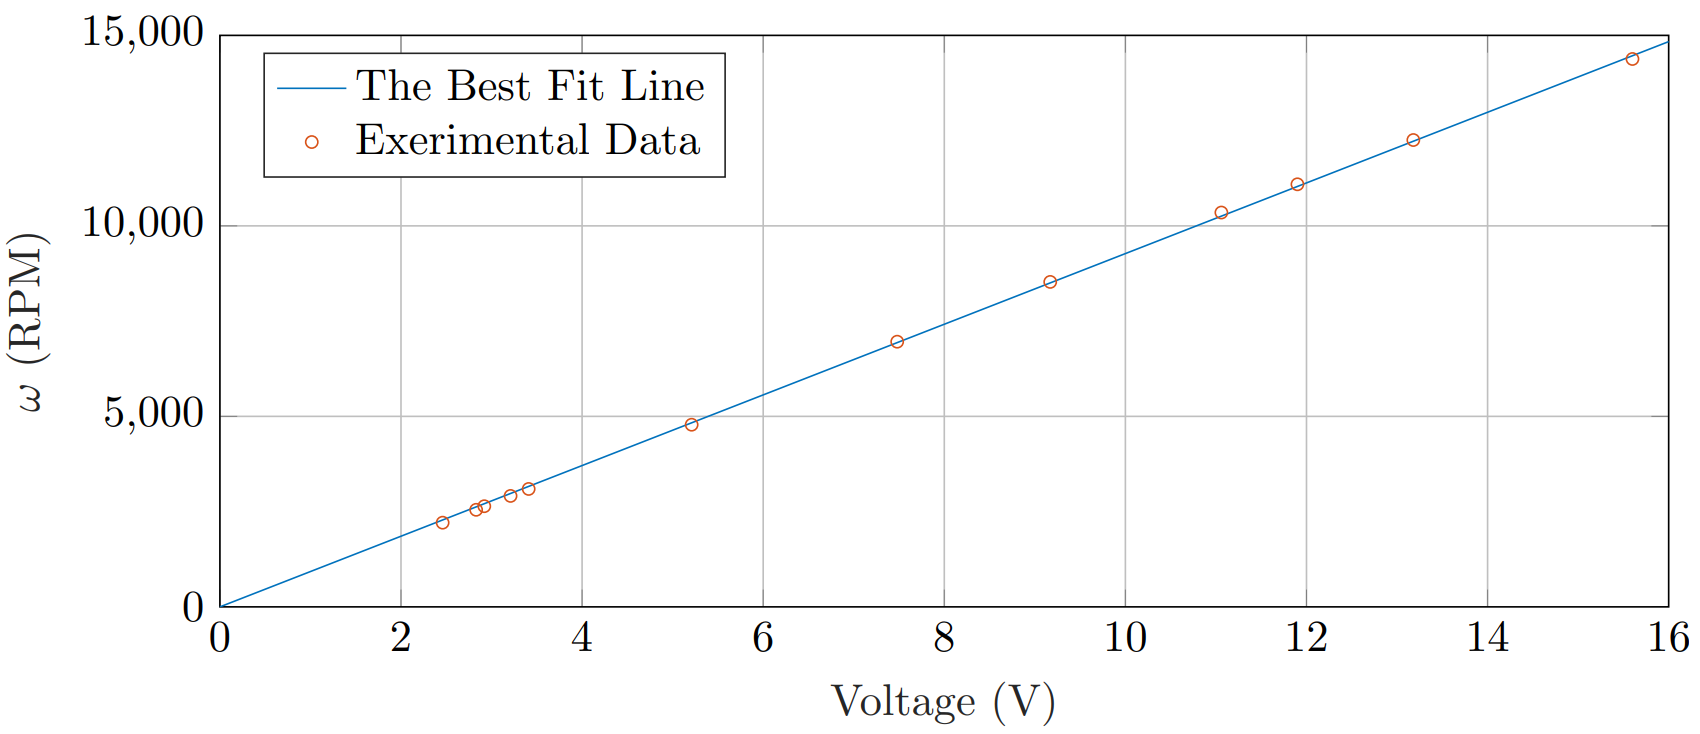
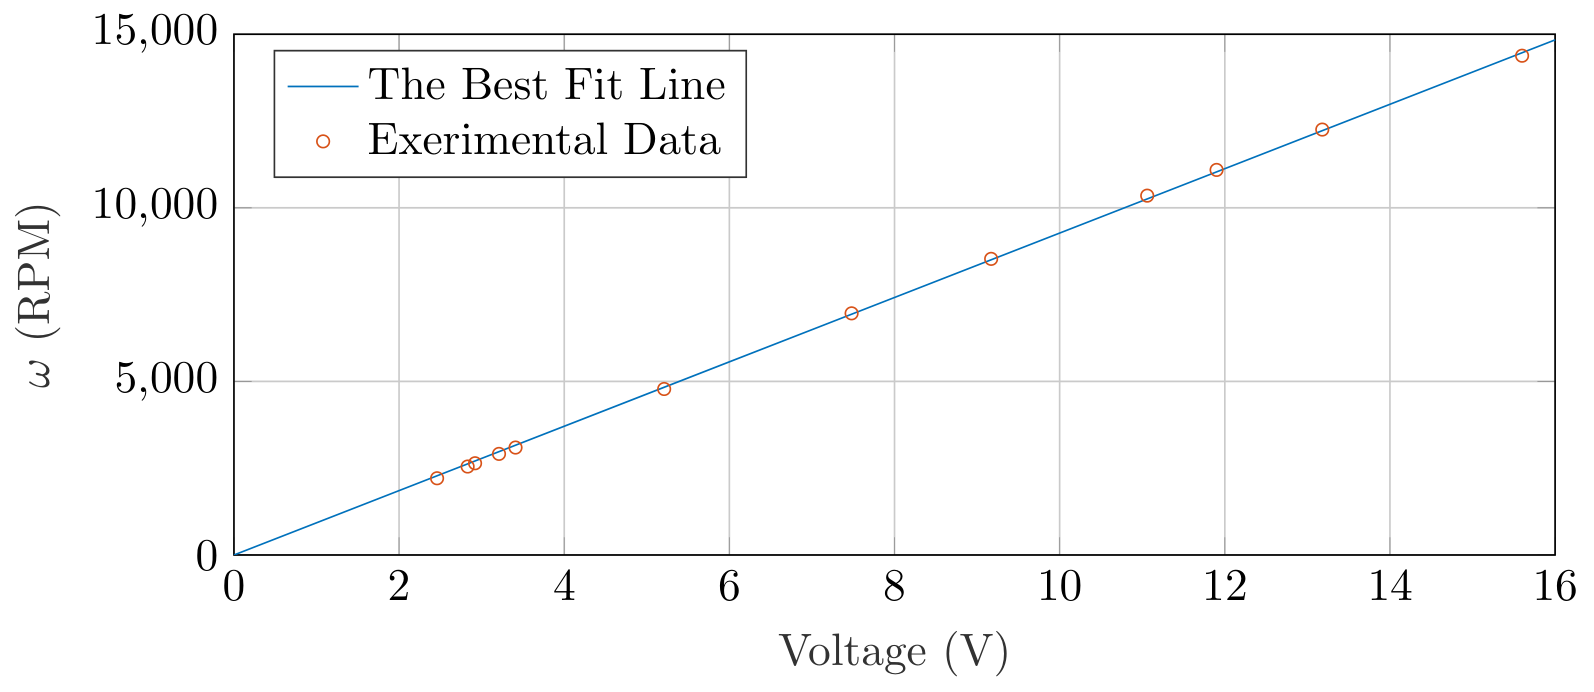
add dark mode figures

diff --git a/src/posts/design_and_construction_of_a_dynamometer.md b/src/posts/design_and_construction_of_a_dynamometer.md
@@ -101,7 +101,6 @@ In its simplest form, an eddy current dynamometer uses a metal disk attached to 
 
 ![A schematic diagram of a eddy current brake.](../assets/figures/dyno-EddyCurrentBrake.svg){width=60% #fig-eddyCurrentDiagram}
 
-
 Although eddy current braking allows for controllable braking, accurately measuring torque is difficult. Additionally, designing a well-balanced disk to couple with a high-speed rotating shaft has mechanical challenges.
 
 #### Dynamic Brake
@@ -161,15 +160,19 @@ where $K_T$ is the torque constant of the motor, $i$ is the coil current, and $T
 
 ### Formulation and Design Variables
 
-To further analyze and optimize the dynamometer's design, the dynamometer is modeled, and its schematic is shown in [](#fig-schematic).
+To further analyze and optimize the dynamometer's design, the dynamometer is modeled, and its schematic is shown in [Figure 5](#fig-schematic).
 
-![The graphical representation of the dynamometer.](../assets/figures/dyno-theSchematic.png){width=80% #fig-schematic}
+<figure markdown="span" id="fig-schematic">
+    ![The graphical representation of the dynamometer.](../assets/figures/dyno-theSchematic.png#only-light){ width=80% }
+    ![The graphical representation of the dynamometer.](../assets/figures/dyno-theSchematic-dark.png#only-dark){ width=80% }
+    <figcaption>Figure 5: The graphical representation of the dynamometer.</figcaption>
+</figure>
 
 When the test motor starts to rotate, the load motor will rotate. This rotation will generate a voltage difference between the load motor's terminals according to [Equation 3](#eq-EMF), and current $i_l$ will start to flow according to [Equation 4](#eq-torquevsi). The current $i_l$ will cause braking.
 
-A voltmeter and amperemeter will be used for the speed and torque measurements, as shown in [](#fig-schematic). The torque and speed can be calculated using [Equation 3](#eq-EMF) and [Equation 4](#eq-torquevsi). However, $K_{V,l}$ and $K_{T,l}$ need to be known for the calculations. Acquiring $K_{V,l}$ and $K_{T,l}$ is discussed in [Load Motor Selection Section](#load-motor-selection).
+A voltmeter and amperemeter will be used for the speed and torque measurements, as shown in [Figure 5](#fig-schematic). The torque and speed can be calculated using [Equation 3](#eq-EMF) and [Equation 4](#eq-torquevsi). However, $K_{V,l}$ and $K_{T,l}$ need to be known for the calculations. Acquiring $K_{V,l}$ and $K_{T,l}$ is discussed in [Load Motor Selection Section](#load-motor-selection).
 
-All the symbols shown in [](#fig-schematic) are described in [](#tbl-symbols).
+All the symbols shown in [Figure 5](#fig-schematic) are described in [](#tbl-symbols).
 
 Table: The descriptions of the symbols. { #tbl-symbols }
 
@@ -259,7 +262,7 @@ $$
 
 In [Steady State Analysis and Measurement Range Section](#steady-state-analysis-and-measurement-range), we assumed that the system is in a steady state so that the internal inductance of the motors will not affect the equations. However, the transient state is critical too, because the dynamometer's response time to change in the potentiometer's resistance may be consequential. The long response times might reduce the ease of use of the dynamometer.
 
-[](#fig-schematic) should be examined closely to model the dynamometer mathematically. The system's mathematical model is constructed using fundamental principles to simulate the system.
+[Figure 5](#fig-schematic) should be examined closely to model the dynamometer mathematically. The system's mathematical model is constructed using fundamental principles to simulate the system.
 
 Using Kirchhoff's voltage law and [Equation 3](#eq-EMF), it can be shown that
 
@@ -320,9 +323,12 @@ The dynamometer can be simulated with a computational tool by solving [Equation 
 
 The most crucial part of an electric dynamometer design is selecting the load motor. The load motor will determine $K_{V,l}$, $K_{T,l}$, and $R_{l}$, which determines the measurement range of the dynamometer as demonstrated in [Equation 7](#eq-selectionThree), [Equation 8](#eq-selectionFour), and [Equation 9](#eq-selectionFive).
 
-Considering our operation limitations discussed in [General Specifications Section](#general-specifications) (maximum speed of 20000 RPM and power of 80 W), we looked for a DC motor in local shops. We specifically searched for DC motors with cooling fans, as the energy output of the test motor will be dissipated as heat in the load motor circuit. In the end, we found and bought an old motor without any specifications, shown in [](#fig-loadMotor).
+Considering our operation limitations discussed in [General Specifications Section](#general-specifications) (maximum speed of 20000 RPM and power of 80 W), we looked for a DC motor in local shops. We specifically searched for DC motors with cooling fans, as the energy output of the test motor will be dissipated as heat in the load motor circuit. In the end, we found and bought an old motor without any specifications, shown in [Figure 6](#fig-loadMotor).
 
-![The load motor.](../assets/figures/dyno-loadMotor.jpeg){width=60% #fig-loadMotor}
+<figure markdown="span" id="fig-loadMotor">
+    ![The load motor.](../assets/figures/dyno-loadMotor.jpeg){ width=60% }
+    <figcaption>Figure 6: The load motor.</figcaption>
+</figure>
 
 The only way to find out if this motor was suitable to our design was to measure $K_{V,l}$, $K_{T,l}$, and $R_{l}$ and use the relevant equations to calculate the measurement range. The selected load motor turned out to be a good choice for our design, and the way the measurements were made and the results are explained in the following sections.
 
@@ -330,9 +336,13 @@ The only way to find out if this motor was suitable to our design was to measure
 
 As explained in [The Basics of a DC Motor Section](#the-basics-of-a-dc-motor) and [Equation 3](#eq-EMF), the voltage difference between a DC motor’s terminals is linearly proportional to its speed by EMF constant, $K_{V,l}$.
 
-To find $K_{V,l}$, we supplied different voltages to the motor and measured the corresponding rotation speed, as shown in [](#fig-kvlMeasurement). [](#tbl-EMFTest) shows the values obtained from the measurements.
+To find $K_{V,l}$, we supplied different voltages to the motor and measured the corresponding rotation speed, as shown in [Figure 7](#fig-kvlMeasurement). [](#tbl-EMFTest) shows the values obtained from the measurements.
 
-![Rotation speed measurement for different voltage inputs.](../assets/figures/dyno-kvlMeasurement.jpeg){width=60% #fig-kvlMeasurement}
+<figure markdown="span" id="fig-kvlMeasurement">
+    ![Rotation speed measurement for different voltage inputs.](../assets/figures/dyno-kvlMeasurement.jpeg){ width=60% }
+    <figcaption>Figure 7: Rotation speed measurement for different voltage inputs.</figcaption>
+</figure>
+
 
 Table: Data table for EMF constant measurement. { #tbl-EMFTest }
 
@@ -351,23 +361,37 @@ Table: Data table for EMF constant measurement. { #tbl-EMFTest }
 | 13.18       | 12253          |
 | 15.60       | 14380          |
 
-Then, the data fitted with [Equation 3](#eq-EMF). The data points and regression line are plotted in [](#fig-EMFTest). $K_{V,l}$ turned out to be 0.0103 (V·s)/rad.
+Then, the data fitted with [Equation 3](#eq-EMF). The data points and regression line are plotted in [Figure 8](#fig-EMFTest). $K_{V,l}$ turned out to be 0.0103 (V·s)/rad.
 
-![The load motor's speed vs. voltage plot.](../assets/figures/dyno-EMFTest.png){width=80% #fig-EMFTest}
+<figure markdown="span" id="fig-EMFTest">
+    ![The load motor's speed vs. voltage plot.](../assets/figures/dyno-EMFTest.png#only-light){ width=90% }
+    ![The load motor's speed vs. voltage plot.](../assets/figures/dyno-EMFTest-dark.png#only-dark){ width=90% }
+    <figcaption>Figure 8: The load motor's speed vs. voltage plot.</figcaption>
+</figure>
 
 ### Torque Constant Measurement
 
 Similarly, the current that flows through a DC motor is linearly proportional to the torque it applies by torque constant, $K_{T,l}$, as shown in [Equation 4](#eq-torquevsi).
 
-We supplied different currents to the motor and measured the corresponding torque. However, measuring the torque was more complex than measuring the speed. First, we attached a lightweight tool to the shaft and then powered the motor. We picked the tool so that the motor could not lift it all the way up but could displace it at a measurable angle. Then, for each current supply, we measured the angular displacement of the tool, as seen in [](#fig-angularDisplacementOne), [](#fig-angularDisplacementTwo), and [](#fig-angularDisplacementThree). Next, we located the center of mass of the tool and weighed it with a precision scale. Finally, we calculated the torque with the angle data using statics.
+We supplied different currents to the motor and measured the corresponding torque. However, measuring the torque was more complex than measuring the speed. First, we attached a lightweight tool to the shaft and then powered the motor. We picked the tool so that the motor could not lift it all the way up but could displace it at a measurable angle. Then, for each current supply, we measured the angular displacement of the tool, as seen in [Figure 9](#fig-angularDisplacementOne), [Figure 10](#fig-angularDisplacementTwo), and [Figure 11](#fig-angularDisplacementThree). Next, we located the center of mass of the tool and weighed it with a precision scale. Finally, we calculated the torque with the angle data using statics.
 
-![Measurement with 0 A.](../assets/figures/dyno-angular1.png){ width=50%  #fig-angularDisplacementOne }
+<figure markdown="span" id="fig-angularDisplacementOne">
+    ![Measurement with 0 A.](../assets/figures/dyno-angular1.png){ width=50% }
+    <figcaption>Figure 9: Measurement with 0 A.</figcaption>
+</figure>
 
-![Measurement with 3.26 A.](../assets/figures/dyno-angular2.png){ width=50% #fig-angularDisplacementTwo }
+<figure markdown="span" id="fig-angularDisplacementTwo">
+    ![Measurement with 3.26 A.](../assets/figures/dyno-angular2.png){ width=50% }
+    <figcaption>Figure 10: Measurement with 3.26 A.</figcaption>
+</figure>
 
-![Measurement with 6.35 A.](../assets/figures/dyno-angular3.png){ width=50% #fig-angularDisplacementThree }
+<figure markdown="span" id="fig-angularDisplacementThree">
+    ![Measurement with 6.35 A.](../assets/figures/dyno-angular3.png){ width=50% }
+    <figcaption>Figure 11: Measurement with 6.35 A.</figcaption>
+</figure>
 
-[](#tbl-torqueTest) shows the values obtained from the measurements and calculated torque values. The data fitted with [Equation 4](#eq-torquevsi). The data points and regression line are plotted in [](#fig-torqueTest). $K_{T,l}$ turned out to be 0.00840 (N·m)/A.
+
+[](#tbl-torqueTest) shows the values obtained from the measurements and calculated torque values. The data fitted with [Equation 4](#eq-torquevsi). The data points and regression line are plotted in [Figure 12](#fig-torqueTest). $K_{T,l}$ turned out to be 0.00840 (N·m)/A.
 
 Table: Data table for torque constant measurement. { #tbl-torqueTest }
 
@@ -389,7 +413,11 @@ Table: Data table for torque constant measurement. { #tbl-torqueTest }
 | 6.35        | 54.1         |
 
 
-![The load motor's current vs. torque plot.](../assets/figures/dyno-torqueTest.png){width=80% #fig-torqueTest}
+<figure markdown="span" id="fig-torqueTest">
+    ![The load motor's current vs. torque plot.](../assets/figures/dyno-torqueTest.png#only-light){ width=80% }
+    ![The load motor's current vs. torque plot.](../assets/figures/dyno-torqueTest-dark.png#only-dark){ width=80% }
+    <figcaption>Figure 12: The load motor's current vs. torque plot.</figcaption>
+</figure>
 
 ### Internal Resistance Measurement
 
@@ -417,9 +445,13 @@ P_{\text{max}}(\omega)=\frac{\omega^2 K_{T,l} K_{V,l}}{R_l}
 $$
 { #eq-maxPower }
 
-[Equation 14](#eq-maxTorque), [Equation 15](#eq-maxPower), and power limit $P_\text{lim}=100\, \mathrm{W}$ are graphed in [](#fig-measurementRange). The blue region shows the dynamometer's measurement range (i.e., operation range).
+[Equation 14](#eq-maxTorque), [Equation 15](#eq-maxPower), and power limit $P_\text{lim}=100\, \mathrm{W}$ are graphed in [Figure 13](#fig-measurementRange). The blue region shows the dynamometer's measurement range (i.e., operation range).
 
-![The measurement range (i.e., operation range) of the dynamometer.](../assets/figures/dyno-measurementRange.png){width=80% #fig-measurementRange}
+<figure markdown="span" id="fig-measurementRange">
+    ![The measurement range (i.e., operation range) of the dynamometer.](../assets/figures/dyno-measurementRange.png#only-light){ width=92% }
+    ![The measurement range (i.e., operation range) of the dynamometer.](../assets/figures/dyno-measurementRange-dark.png#only-dark){ width=92% }
+    <figcaption>Figure 13: The measurement range (i.e., operation range) of the dynamometer.</figcaption>
+</figure>
 
 The results show that the dynamometer can operate at speed and power up to 20000 RPM and 80 W. So, this load motor is suitable for the design and selection. However, it should be noted that the maximum braking torque will get lower as the rotation speed decreases. Consequently, this design is only suitable for high-speed, low-torque motors. However, a gear reducer may be used to reduce the torque and increase the speed of any motor so that the dynamometer can be used.
 
@@ -514,9 +546,13 @@ After the load motor selection, the theoretical measurement range is found. The 
 
 ### Working Mechanism and Flowchart
 
-The dynamometer is shown in block diagram form in [](#fig-blockDiagram).
+The dynamometer is shown in block diagram form in [Figure 14](#fig-blockDiagram).
 
-![The dynamometer in block diagram form.](../assets/figures/dyno-blockDiagram.png){width=85% #fig-blockDiagram}
+<figure markdown="span" id="fig-blockDiagram">
+    ![The dynamometer in block diagram form.](../assets/figures/dyno-blockDiagram.png#only-light){ width=85% }
+    ![The dynamometer in block diagram form.](../assets/figures/dyno-blockDiagram-dark.png#only-dark){ width=85% }
+    <figcaption>Figure 14: The dynamometer in block diagram form.</figcaption>
+</figure>
 
 The load and speed will be controlled by changing the resistance of the potentiometer ($R$). The user can easily adjust the potentiometer's resistance. The resistance value will change the braking load and speed of the motor, as shown in [Equation 7](#eq-selectionThree) and [Equation 8](#eq-selectionFour). While the user changes the resistance, the electronic circuit will collect the measurement data continuously.
 
@@ -524,11 +560,17 @@ A potentiometer is a very accessible tool, and we bought one from a local shop t
 
 ### Mechanical Design and Components
 
-Before the electronic measurement circuit, a mechanical design is made, and the dynamometer with two DC motors (a test and a load motor) is assembled. The final product and its 3D CAD model are shown in [](#fig-finalRealDyno) and [](#fig-dynamometerCAD).
+Before the electronic measurement circuit, a mechanical design is made, and the dynamometer with two DC motors (a test and a load motor) is assembled. The final product and its 3D CAD model are shown in [Figure 15](#fig-finalRealDyno) and [Figure 16](#fig-dynamometerCAD).
 
-![Final mechanical assembly of the dynamometer.](../assets/figures/dyno-finalAssembly.jpeg){width=60% #fig-finalRealDyno}
+<figure markdown="span" id="fig-finalRealDyno">
+    ![Final mechanical assembly of the dynamometer.](../assets/figures/dyno-finalAssembly.jpeg){width=60% #fig-finalRealDyno}
+    <figcaption>Figure 15: Final mechanical assembly of the dynamometer.</figcaption>
+</figure>
 
-![Final computer-aided design of the dynamometer.](../assets/figures/dyno-dynamometerWithBothMotors.jpeg){width=60% #fig-dynamometerCAD}
+<figure markdown="span" id="fig-dynamometerCAD">
+    ![Final computer-aided design of the dynamometer.](../assets/figures/dyno-dynamometerWithBothMotors.jpeg){width=60% #fig-dynamometerCAD}
+    <figcaption>Figure 16: Final computer-aided design of the dynamometer.</figcaption>
+</figure>
 
 The assembly consists of the following components:
 
@@ -549,7 +591,7 @@ The mechanical assembly of the dynamometer was straightforward, and the process 
 
 ### Electronic Design and Components
 
-After the mechanical assembly, the next step was to design the electronic circuit and program a microcontroller to make and collect the measurements. The schematic of the final design is given in [Figure 16](#fig-electronicschematic). The main points that were considered are given below.
+After the mechanical assembly, the next step was to design the electronic circuit and program a microcontroller to make and collect the measurements. The schematic of the final design is given in [Figure 17](#fig-electronicschematic). The main points that were considered are given below.
 
 - A current sensor is needed.
 - A voltage sensor is needed.
@@ -561,7 +603,7 @@ After the mechanical assembly, the next step was to design the electronic circui
   <object data="../../assets/figures/dyno-schematic.pdf" type="application/pdf" width="100%" height="600px">
       <embed src="../../assets/figures/dyno-schematic.pdf" type="application/pdf"/>
   </object>
-  <figcaption>Figure 16: The schematic of the electronic circuit of the dynamometer.</figcaption>
+  <figcaption>Figure 17: The schematic of the electronic circuit of the dynamometer.</figcaption>
 </figure>
 
 We used a basic Arduino-like microcontroller, Teensy 3.2[@teensy]. The programming part consisted of 2 main concerns.
@@ -575,11 +617,12 @@ The integration with MATLAB can be made via a USB cable. However, it is not nece
 
 ## Results
 
-Eventually, we tested the dynamometer with another DC motor we bought from a local shop. We connected the dynamometer to a computer so the results could be plotted in real-time. The measurement results are shown in [Figure 17](#fig-results).
+Eventually, we tested the dynamometer with another DC motor we bought from a local shop. We connected the dynamometer to a computer so the results could be plotted in real-time. The measurement results are shown in [Figure 18](#fig-results).
 
 <figure markdown="span" style="margin: 1em 0; width: 100%" id="fig-results" >
-  ![Measurements of the dynamometer.](../assets/figures/dyno-results.png){ width=50% }
-  <figcaption>Figure 17: Measurements of the dynamometer.</figcaption>
+  ![Measurements of the dynamometer.](../assets/figures/dyno-results.png#only-light){ width=80% }
+  ![Measurements of the dynamometer.](../assets/figures/dyno-results-dark.png#only-dark){ width=80% }
+  <figcaption>Figure 18: Measurements of the dynamometer.</figcaption>
 </figure>
 
 ## Conclusions
@@ -588,9 +631,9 @@ In this project, an electric absorption dynamometer is designed, modeled, and bu
 
 Firstly, the dynamometers are researched, and their fundamental working principle is analyzed. Then, an absorption unit is selected to be a DC generator. After the absorption unit selection, the dynamometer is formulated carefully, and the necessary components are found and designed to achieve our targets. Next, the system is modeled mathematically to ensure that the components satisfy the design criteria. A MATLAB code was written for the simulation of the dynamometer and made available on GitHub. Finally, the dynamometer is assembled, and the electronic circuit is designed and programmed.
 
-### Possible Future Improvements
+### Ideas for Future
 
-The possible future improvement ideas are given below so that in the future, people can further improve the design and make use of it.
+The potential improvement ideas are given below so that individuals can enhance the design and utilize it more effectively in the future.
 
 1.  The load can be controlled electronically by substituting the potentiometer with a digital potentiometer or using another electric motor to control the potentiometer.
 2.  Better sensors can be used to get more precise results.
